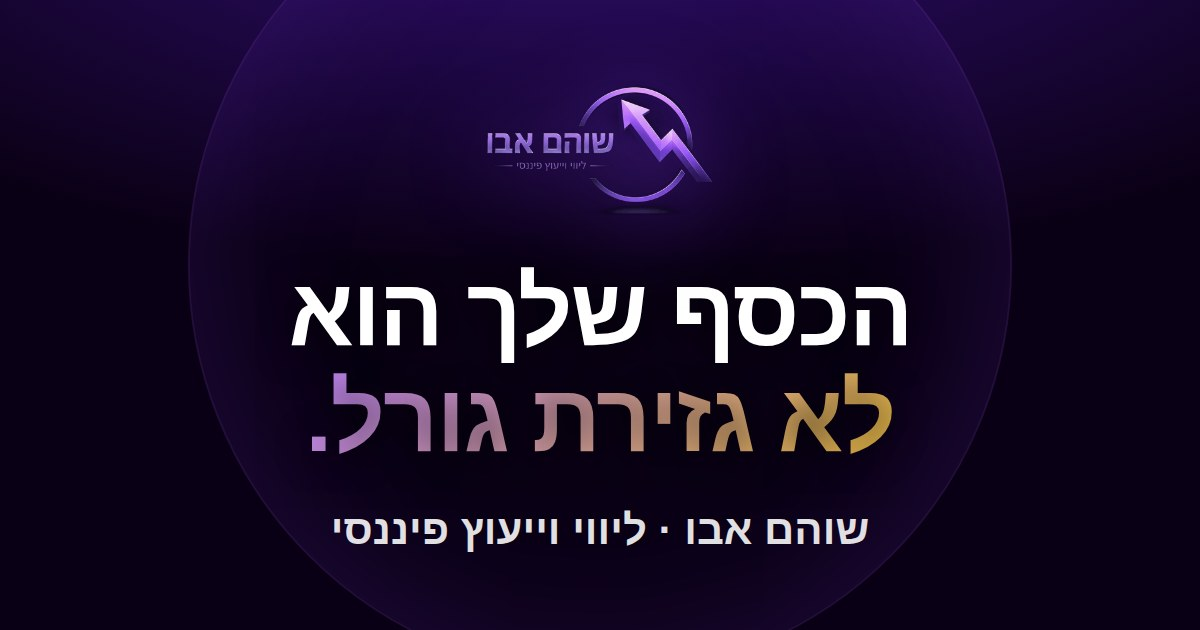
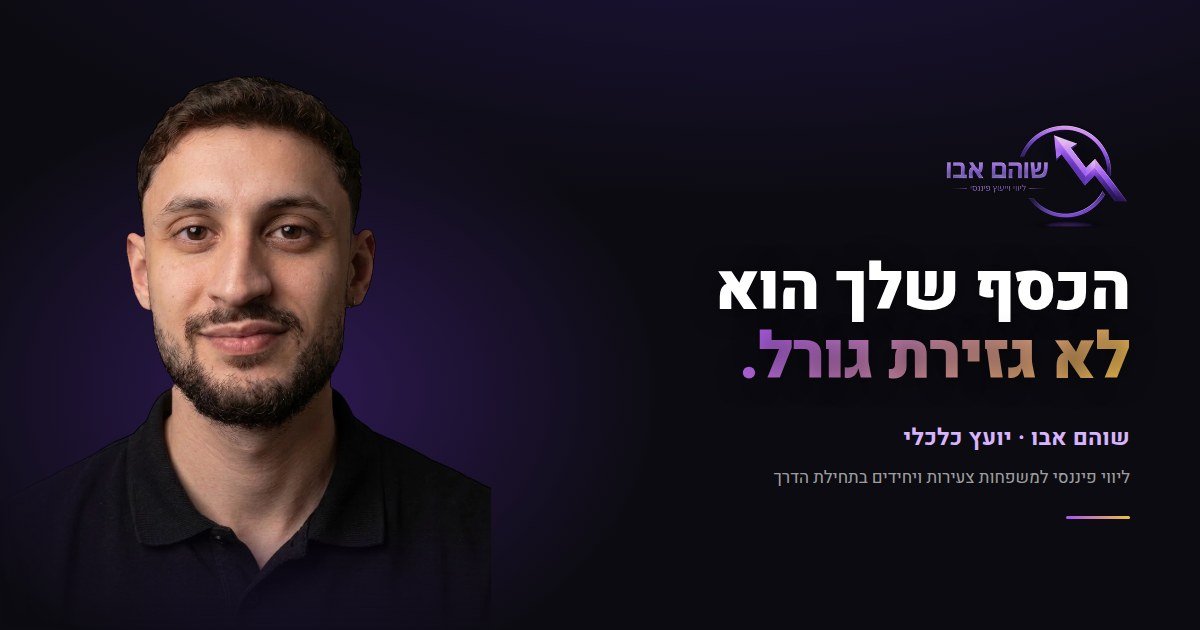
Put his face on the card that opens when the link is shared
It was the logo and the headline. A WhatsApp preview is shown at 300px or
more — a size a face reads at perfectly well, and the size at which "who
is this" is the question the person is asking. So the card is his portrait
on the left, the headline, his name and what he does on the right, in the
page's own colours.

Built as a real page and photographed rather than drawn by hand, so it is
set in the site's own Heebo at the site's own weights, with the same violet
pool behind it and the same gradient across the accent line. The portrait
is the cut-out already on the page, faded on its inner edge so it belongs
to the card rather than sitting on it.

Checked at 300px and at 180px: the face and the headline both hold. The
line about who he works with goes at that size, which is the right thing
for it to do — it is the third thing on the card.

1200 by 630, 59KB against the 50KB of the one it replaces. Its address
carries the file's checksum: the platforms cache what they scrape, hard,
and the name has not changed.

Claude-Session: https://claude.ai/code/session_01XrM26kY25qmnopVjeTJwqL

diff --git a/index.html b/index.html
@@ -160,7 +160,12 @@
 <meta property="og:url" content="https://shohamfinance.co.il/">
 <meta property="og:title" content="הכסף שלך הוא לא גזירת גורל">
 <meta property="og:description" content="ליווי וייעוץ פיננסי אישי לצעירים, לזוגות ולמשפחות צעירות. יועץ כלכלי מוסמך מטעם חברת UNI פיננסים, בפיקוח אוניברסיטת אריאל.">
-<meta property="og:image" content="https://shohamfinance.co.il/assets/share-home.jpg">
+<!-- The picture that opens when someone sends this link. It carries his
+     face now rather than the logo alone: it is shown at 300px or more in a
+     WhatsApp preview, which is a size a face reads at and where "who is
+     this" is the question being asked. The ?v= is its checksum — the
+     platforms cache what they scrape, hard, and the name has not changed. -->
+<meta property="og:image" content="https://shohamfinance.co.il/assets/share-home.jpg?v=c2752fa9">
 <meta property="og:image:type" content="image/jpeg">
 <meta property="og:image:width" content="1200">
 <meta property="og:image:height" content="630">
@@ -168,7 +173,7 @@
 <meta name="twitter:card" content="summary_large_image">
 <meta name="twitter:title" content="הכסף שלך הוא לא גזירת גורל">
 <meta name="twitter:description" content="ליווי וייעוץ פיננסי אישי לצעירים, לזוגות ולמשפחות צעירות. יועץ כלכלי מוסמך מטעם חברת UNI פיננסים, בפיקוח אוניברסיטת אריאל.">
-<meta name="twitter:image" content="https://shohamfinance.co.il/assets/share-home.jpg">
+<meta name="twitter:image" content="https://shohamfinance.co.il/assets/share-home.jpg?v=c2752fa9">
 <link href="https://fonts.googleapis.com/css2?family=Heebo:wght@300;400;500;700;800;900&display=swap" rel="stylesheet">
 <style>
 * { margin: 0; padding: 0; box-sizing: border-box; }
